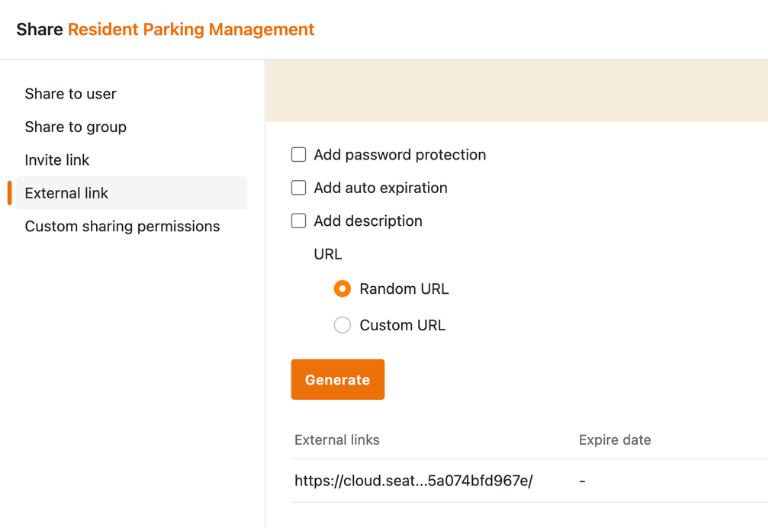
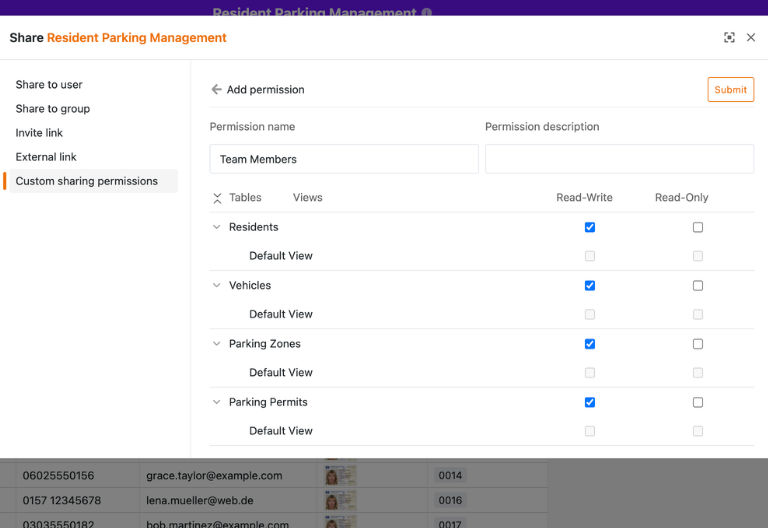
templatepage bewohnerparkausweis v2

diff --git a/src/content/templates/public-sector/resident-parking-permit/index.de.md b/src/content/templates/public-sector/resident-parking-permit/index.de.md
@@ -74,7 +74,7 @@ sections:
       subtitle: 'Warum Kommunen auf SeaTable setzen'
       description: Mit der [KI No-Code Lösung]({{< relref "/" >}}) SeaTable nutzen Sie eine **moderne und datenschutzkonforme digitale Lösung** für die [kommunale Parkraumbewirtschaftung]({{< relref "posts/parkraumbewirtschaftung" >}}). Erfassen Sie Vorgänge aus schriftlichen und Online-Anträgen, prüfen Sie Nachweise strukturiert und behalten Sie Rückfragen, Fristen und Bearbeitungsstände im Blick. Die Vorlage für den Anwohnerparkausweis lässt sich **flexibel an kommunale Abläufe anpassen** und mit Ihrem Fachverfahren Parkraumbewirtschaftung verbinden.'
       items:
-      - text: '**Stest aktuell:** Jede Änderung und jeder neue Eintrag sind sofort für alle Mitarbeiter sichtbar. So gleichen Kontrolleure Parkausweise immer mit aktuellen Daten ab.'
+      - text: '**Stets aktuell:** Jede Änderung und jeder neue Eintrag sind sofort für alle Mitarbeiter sichtbar. So gleichen Kontrolleure Parkausweise immer mit aktuellen Daten ab.'
       - text: '**Kollaboration zwischen Fachabteilungen:** Sachbearbeitung, Straßenverkehrsbehörden, Verkehrsplanungsamt und Kämmereien nutzen ein integriertes System und arbeiten in Echtzeit zusammen.'
       - text: '**DSGVO-konform:** SeaTable erfüllt höchste Sicherheitsanforderungen und wird ausschließlich auf Servern europäischer Unternehmen in Deutschland gehostet.'
       - text: '**On-premises:** Mit SeaTable Server steht eine on-premises Lösung zur Verfügung, die Organisationen des öffentlichen Sektors auf Basis des **EVB-IT Überlassungsvertrag Typ B** nutzen können.'
